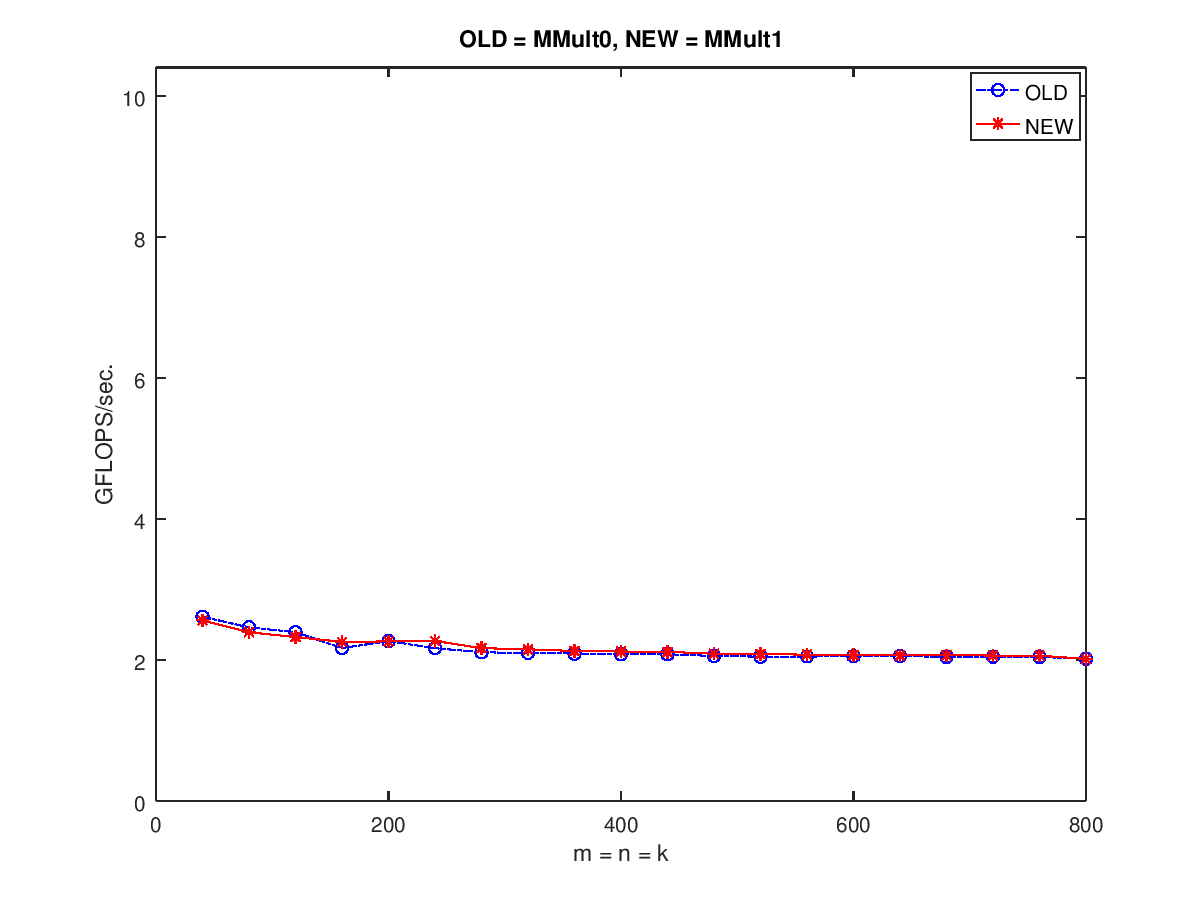
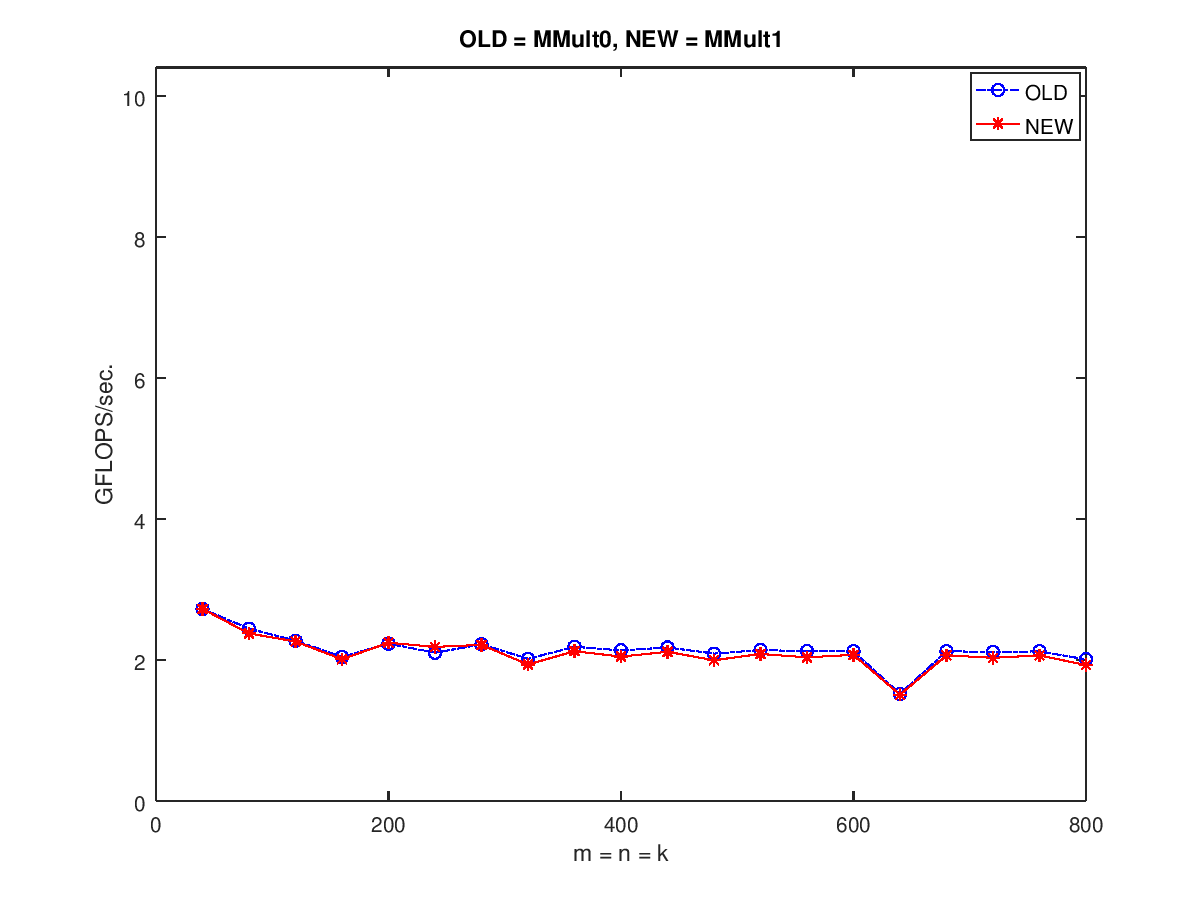
fuse four loops, reduce loaded times of A(0, p)

Changed region(s): [[0.1542, 0.6533, 0.925, 0.7778]]

diff --git a/src/HowToOptimizeGemm/test_MMult.c b/src/HowToOptimizeGemm/test_MMult.c
@@ -51,24 +51,24 @@ int main()
     cref = ( double * ) malloc( ldc * n * sizeof( double ) );
 
     /* Generate random matrices A, B, Cold */
-    random_matrix( m, k, a, lda );
-    random_matrix( k, n, b, ldb );
-    random_matrix( m, n, cold, ldc );
+    random_matrix( m, k, a, lda );                    // a = random
+    random_matrix( k, n, b, ldb );                    // b = random
+    random_matrix( m, n, cold, ldc );                 // cold = random
 
-    copy_matrix( m, n, cold, ldc, cref, ldc );
+    copy_matrix( m, n, cold, ldc, cref, ldc );        // cerf = cold
 
     /* Run the reference implementation so the answers can be compared */
 
-    REF_MMult( m, n, k, a, lda, b, ldb, cref, ldc );
+    REF_MMult( m, n, k, a, lda, b, ldb, cref, ldc );   // cerf = cerf + a*b
 
     /* Time the "optimized" implementation */
     for ( rep=0; rep<NREPEATS; rep++ ){
-      copy_matrix( m, n, cold, ldc, c, ldc );
+      copy_matrix( m, n, cold, ldc, c, ldc );          // c = cold
 
       /* Time your implementation */
       dtime = dclock();
 
-      MY_MMult( m, n, k, a, lda, b, ldb, c, ldc );
+      MY_MMult( m, n, k, a, lda, b, ldb, c, ldc );     // c = c + a*b
       
       dtime = dclock() - dtime;
 
@@ -78,7 +78,7 @@ int main()
 	dtime_best = ( dtime < dtime_best ? dtime : dtime_best );
     }
 
-    diff = compare_matrices( m, n, c, ldc, cref, ldc );
+    diff = compare_matrices( m, n, c, ldc, cref, ldc );  // compare c and cerf 
 
     printf( "%d %le %le \n", p, gflops / dtime_best, diff );
     fflush( stdout );

diff --git a/src/HowToOptimizeGemm/output_MMult0.m b/src/HowToOptimizeGemm/output_MMult0.m
@@ -1,23 +1,23 @@
 version = 'MMult0';
 MY_MMult = [
-40 2.612245e+00 0.000000e+00 
-80 2.461538e+00 0.000000e+00 
-120 2.393352e+00 0.000000e+00 
-160 2.168343e+00 0.000000e+00 
-200 2.266610e+00 0.000000e+00 
-240 2.166941e+00 0.000000e+00 
-280 2.108033e+00 0.000000e+00 
-320 2.099638e+00 0.000000e+00 
-360 2.090135e+00 0.000000e+00 
-400 2.080016e+00 0.000000e+00 
-440 2.078444e+00 0.000000e+00 
-480 2.056932e+00 0.000000e+00 
-520 2.045951e+00 0.000000e+00 
-560 2.048478e+00 0.000000e+00 
-600 2.052071e+00 0.000000e+00 
-640 2.054299e+00 0.000000e+00 
-680 2.043910e+00 0.000000e+00 
-720 2.047129e+00 0.000000e+00 
-760 2.042015e+00 0.000000e+00 
-800 2.017897e+00 0.000000e+00 
+40 2.723404e+00 0.000000e+00 
+80 2.443914e+00 0.000000e+00 
+120 2.272189e+00 0.000000e+00 
+160 2.044422e+00 0.000000e+00 
+200 2.231209e+00 0.000000e+00 
+240 2.102190e+00 0.000000e+00 
+280 2.221300e+00 0.000000e+00 
+320 2.015686e+00 0.000000e+00 
+360 2.186727e+00 0.000000e+00 
+400 2.135540e+00 0.000000e+00 
+440 2.176976e+00 0.000000e+00 
+480 2.089914e+00 0.000000e+00 
+520 2.140576e+00 0.000000e+00 
+560 2.124134e+00 0.000000e+00 
+600 2.120943e+00 0.000000e+00 
+640 1.516883e+00 0.000000e+00 
+680 2.124189e+00 0.000000e+00 
+720 2.111525e+00 0.000000e+00 
+760 2.122344e+00 0.000000e+00 
+800 2.007516e+00 0.000000e+00 
 ];

diff --git a/src/HowToOptimizeGemm/output_MMult1.m b/src/HowToOptimizeGemm/output_MMult1.m
@@ -1,23 +1,23 @@
 version = 'MMult1';
 MY_MMult = [
-40 2.560000e+00 0.000000e+00 
-80 2.392523e+00 0.000000e+00 
-120 2.324143e+00 0.000000e+00 
-160 2.256749e+00 0.000000e+00 
-200 2.262763e+00 0.000000e+00 
-240 2.268833e+00 0.000000e+00 
-280 2.167243e+00 0.000000e+00 
-320 2.150837e+00 0.000000e+00 
-360 2.126915e+00 0.000000e+00 
-400 2.119942e+00 0.000000e+00 
-440 2.114849e+00 0.000000e+00 
-480 2.087843e+00 0.000000e+00 
-520 2.083575e+00 0.000000e+00 
-560 2.075005e+00 0.000000e+00 
-600 2.067609e+00 0.000000e+00 
-640 2.063760e+00 0.000000e+00 
-680 2.065811e+00 0.000000e+00 
-720 2.062651e+00 0.000000e+00 
-760 2.059779e+00 0.000000e+00 
-800 2.015538e+00 0.000000e+00 
+40 2.723404e+00 0.000000e+00 
+80 2.375870e+00 0.000000e+00 
+120 2.261780e+00 0.000000e+00 
+160 2.009814e+00 0.000000e+00 
+200 2.244039e+00 0.000000e+00 
+240 2.185267e+00 0.000000e+00 
+280 2.213796e+00 0.000000e+00 
+320 1.935499e+00 0.000000e+00 
+360 2.124107e+00 0.000000e+00 
+400 2.047279e+00 0.000000e+00 
+440 2.115663e+00 0.000000e+00 
+480 1.995507e+00 0.000000e+00 
+520 2.084904e+00 0.000000e+00 
+560 2.036848e+00 0.000000e+00 
+600 2.072628e+00 0.000000e+00 
+640 1.506692e+00 0.000000e+00 
+680 2.066083e+00 0.000000e+00 
+720 2.029719e+00 0.000000e+00 
+760 2.064939e+00 0.000000e+00 
+800 1.926829e+00 0.000000e+00 
 ];

diff --git a/src/HowToOptimizeGemm/MMult_1x4_4.c b/src/HowToOptimizeGemm/MMult_1x4_4.c
@@ -6,23 +6,48 @@
 
 /* Routine for computing C = A * B + C */
 
-void AddDot( int, double *, int, double *, double * );
-
+void AddDot1x4(int, double *, int, double *, int, double *, int);
 void MY_MMult( int m, int n, int k, double *a, int lda, 
                                     double *b, int ldb,
                                     double *c, int ldc )
 {
   int i, j;
 
-  for ( j=0; j<n; j+=1 ){        /* Loop over the columns of C */
+  for ( j=0; j<n; j+=4 ){        /* Loop over the columns of C , count 4 per time*/
     for ( i=0; i<m; i+=1 ){        /* Loop over the rows of C */
       /* Update the C( i,j ) with the inner product of the ith row of A
 	 and the jth column of B */
+      AddDot1x4(k, &A(i,0), lda, &B(0, j), ldb, &C(i,j), ldc);
 
-      AddDot( k, &A( i,0 ), lda, &B( 0,j ), &C( i,j ) );
+
     }
   }
 }
+
+void AddDot1x4(int k, double* a, int lda, double *b, int ldb, double * c, int ldc)
+{
+  int p;
+  for(p = 0; p < k; p++)
+  {
+    C(0,0) += A(0,p) * B(p,0);
+  }
+
+  for(p = 0; p < k; p++)
+  {
+    C(0,1) += A(0,p) * B(p,1);
+  }
+
+  for(p = 0; p < k; p++)
+  {
+    C(0,2) += A(0,p) * B(p,2);
+  }
+
+  for(p = 0; p < k; p++)
+  {
+    C(0,3) += A(0,p) * B(p,3);
+  }
+}
+
 
 
 /* Create macro to let X( i ) equal the ith element of x */

diff --git a/src/HowToOptimizeGemm/MMult_1x4_3.c b/src/HowToOptimizeGemm/MMult_1x4_3.c
@@ -7,22 +7,33 @@
 /* Routine for computing C = A * B + C */
 
 void AddDot( int, double *, int, double *, double * );
-
+void AddDot1x4(int, double *, int, double *, int, double *, int);
 void MY_MMult( int m, int n, int k, double *a, int lda, 
                                     double *b, int ldb,
                                     double *c, int ldc )
 {
   int i, j;
 
-  for ( j=0; j<n; j+=1 ){        /* Loop over the columns of C */
+  for ( j=0; j<n; j+=4 ){        /* Loop over the columns of C , count 4 per time*/
     for ( i=0; i<m; i+=1 ){        /* Loop over the rows of C */
       /* Update the C( i,j ) with the inner product of the ith row of A
 	 and the jth column of B */
+      AddDot1x4(k, &A(i,0), lda, &B(0, j), ldb, &C(i,j), ldc);
 
-      AddDot( k, &A( i,0 ), lda, &B( 0,j ), &C( i,j ) );
+
     }
   }
 }
+
+void AddDot1x4(int k, double* a, int lda, double *b, int ldb, double * c, int ldc)
+{
+  AddDot(k, &A(0,0), lda, &B(0,0),&C(0,0));
+  AddDot(k, &A(0,0), lda, &B(0,1),&C(0,1));
+  AddDot(k, &A(0,0), lda, &B(0,2),&C(0,2));
+  AddDot(k, &A(0,0), lda, &B(0,3),&C(0,3));
+
+}
+
 
 
 /* Create macro to let X( i ) equal the ith element of x */

diff --git a/src/HowToOptimizeGemm/MMult_1x4_5.c b/src/HowToOptimizeGemm/MMult_1x4_5.c
@@ -6,23 +6,36 @@
 
 /* Routine for computing C = A * B + C */
 
-void AddDot( int, double *, int, double *, double * );
-
+void AddDot1x4(int, double *, int, double *, int, double *, int);
 void MY_MMult( int m, int n, int k, double *a, int lda, 
                                     double *b, int ldb,
                                     double *c, int ldc )
 {
   int i, j;
 
-  for ( j=0; j<n; j+=1 ){        /* Loop over the columns of C */
+  for ( j=0; j<n; j+=4 ){        /* Loop over the columns of C , count 4 per time*/
     for ( i=0; i<m; i+=1 ){        /* Loop over the rows of C */
       /* Update the C( i,j ) with the inner product of the ith row of A
 	 and the jth column of B */
+      AddDot1x4(k, &A(i,0), lda, &B(0, j), ldb, &C(i,j), ldc);
 
-      AddDot( k, &A( i,0 ), lda, &B( 0,j ), &C( i,j ) );
+
     }
   }
 }
+
+void AddDot1x4(int k, double* a, int lda, double *b, int ldb, double * c, int ldc)
+{
+  int p;
+  for(p = 0; p < k; p++)
+  {
+    C(0,0) += A(0,p) * B(p,0);
+    C(0,1) += A(0,p) * B(p,1);
+    C(0,2) += A(0,p) * B(p,2);
+    C(0,3) += A(0,p) * B(p,3);
+  }
+}
+
 
 
 /* Create macro to let X( i ) equal the ith element of x */

diff --git a/src/HowToOptimizeGemm/output_MMult_1x4_3.m b/src/HowToOptimizeGemm/output_MMult_1x4_3.m
@@ -1,0 +1,28 @@
+version = 'MMult_1x4_3';
+MY_MMult = [
+40 2.844444e+00 0.000000e+00 
+80 2.280624e+00 0.000000e+00 
+120 2.170854e+00 0.000000e+00 
+160 2.006859e+00 0.000000e+00 
+200 2.208115e+00 0.000000e+00 
+240 2.159831e+00 0.000000e+00 
+280 2.212903e+00 0.000000e+00 
+320 1.900751e+00 0.000000e+00 
+360 2.133333e+00 0.000000e+00 
+400 2.076001e+00 0.000000e+00 
+440 2.128243e+00 0.000000e+00 
+480 2.017844e+00 0.000000e+00 
+520 2.088930e+00 0.000000e+00 
+560 2.058708e+00 0.000000e+00 
+600 2.083595e+00 0.000000e+00 
+640 1.494780e+00 0.000000e+00 
+680 2.080485e+00 0.000000e+00 
+720 2.054849e+00 0.000000e+00 
+760 2.075851e+00 0.000000e+00 
+800 1.951688e+00 0.000000e+00 
+840 2.069725e+00 0.000000e+00 
+880 2.030693e+00 0.000000e+00 
+920 2.054629e+00 0.000000e+00 
+960 1.612353e+00 0.000000e+00 
+1000 1.408145e+00 0.000000e+00 
+];

diff --git a/src/HowToOptimizeGemm/output_MMult2.m b/src/HowToOptimizeGemm/output_MMult2.m
@@ -1,0 +1,28 @@
+version = 'MMult2';
+MY_MMult = [
+40 2.909091e+00 0.000000e+00 
+80 2.547264e+00 0.000000e+00 
+120 2.236893e+00 0.000000e+00 
+160 2.182787e+00 0.000000e+00 
+200 2.190281e+00 0.000000e+00 
+240 2.125461e+00 0.000000e+00 
+280 2.116671e+00 0.000000e+00 
+320 1.865369e+00 0.000000e+00 
+360 2.106508e+00 0.000000e+00 
+400 2.037665e+00 0.000000e+00 
+440 2.097715e+00 0.000000e+00 
+480 1.988135e+00 0.000000e+00 
+520 2.034568e+00 0.000000e+00 
+560 1.882101e+00 0.000000e+00 
+600 2.020760e+00 0.000000e+00 
+640 1.443624e+00 0.000000e+00 
+680 2.149617e+00 0.000000e+00 
+720 2.122379e+00 0.000000e+00 
+760 2.142616e+00 0.000000e+00 
+800 1.900488e+00 0.000000e+00 
+840 2.112074e+00 0.000000e+00 
+880 2.092485e+00 0.000000e+00 
+920 2.103832e+00 0.000000e+00 
+960 1.632994e+00 0.000000e+00 
+1000 1.506600e+00 0.000000e+00 
+];

diff --git a/src/HowToOptimizeGemm/parameters.h b/src/HowToOptimizeGemm/parameters.h
@@ -3,7 +3,7 @@ In the test driver, there is a loop "for ( p=PFIRST; p<= PLAST; p+= PINC )"
 The below parameters set this range of values that p takes on 
 */   
 #define PFIRST 40
-#define PLAST  800
+#define PLAST  1000
 #define PINC   40
 
 /* 
@@ -21,7 +21,7 @@ In the test driver, each experiment is repeated NREPEATS times and
 the best time from these repeats is used to compute the performance
 */
 
-#define NREPEATS 2
+#define NREPEATS 3
 
 /* 
 Matrices A, B, and C are stored in two dimensional arrays with
@@ -35,6 +35,11 @@ leading dimension of the array that stores matrix X.  If LDX=-1
 then the leading dimension is set to the row dimension of matrix X.
 */
 
-#define LDA 1000
-#define LDB 1000
-#define LDC 1000
+// #define LDA 1000
+// #define LDB 1000
+// #define LDC 1000
+
+
+#define LDA -1
+#define LDB -1
+#define LDC -1

diff --git a/src/HowToOptimizeGemm/MMult2.c b/src/HowToOptimizeGemm/MMult2.c
@@ -14,12 +14,20 @@ void MY_MMult( int m, int n, int k, double *a, int lda,
 {
   int i, j;
 
-  for ( j=0; j<n; j+=1 ){        /* Loop over the columns of C */
+  for ( j=0; j<n; j+=4 ){        /* Loop over the columns of C , count 4 per time*/
     for ( i=0; i<m; i+=1 ){        /* Loop over the rows of C */
       /* Update the C( i,j ) with the inner product of the ith row of A
 	 and the jth column of B */
 
       AddDot( k, &A( i,0 ), lda, &B( 0,j ), &C( i,j ) );
+
+      AddDot( k, &A( i,0 ), lda, &B( 0,j + 1), &C( i,j+1 ) );
+      
+      AddDot( k, &A( i,0 ), lda, &B( 0,j + 2), &C( i,j+2 ) );
+      
+      AddDot( k, &A( i,0 ), lda, &B( 0,j + 3), &C( i,j+3 ) );
+
+
     }
   }
 }

diff --git a/src/HowToOptimizeGemm/MMult0.c b/src/HowToOptimizeGemm/MMult0.c
@@ -17,7 +17,7 @@ void MY_MMult( int m, int n, int k, double *a, int lda,
       for ( p=0; p<k; p++ ){        /* Update C( i,j ) with the inner
 				       product of the ith row of A and
 				       the jth column of B */
-	C( i,j ) = C( i,j ) +  A( i,p ) * B( p,j );
+	        C( i,j ) = C( i,j ) +  A( i,p ) * B( p,j );
       }
     }
   }

diff --git a/src/MMult_1x4_5.c b/src/MMult_1x4_5.c
@@ -6,7 +6,7 @@
 
 /* Routine for computing C = A * B + C */
 
-void AddDot1x4( int, double *, int,  double *, int, double *, int )
+void AddDot1x4( int, double *, int,  double *, int, double *, int );
 
 void MY_MMult( int m, int n, int k, double *a, int lda, 
                                     double *b, int ldb,
